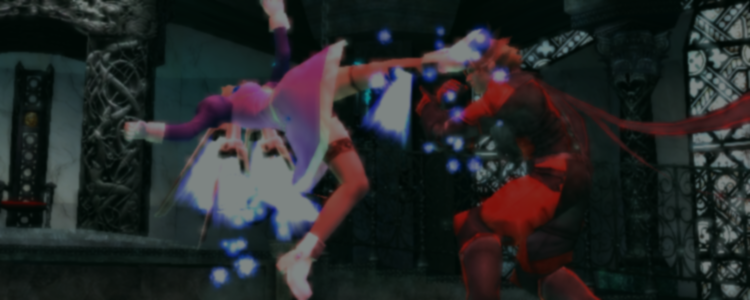
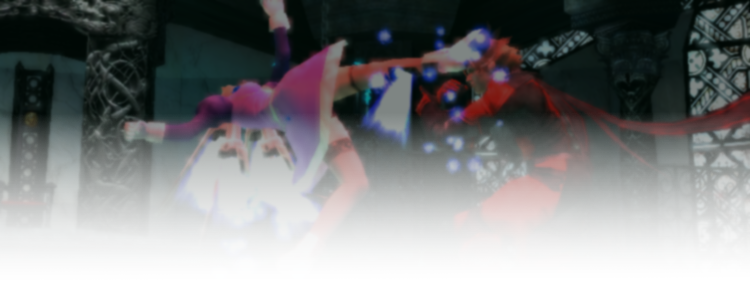
Update on TEKKEN 6 page

diff --git a/tk6-progress.html b/tk6-progress.html
@@ -1,0 +1,72 @@
+<!DOCTYPE html>
+<html lang="en">
+
+<head>
+
+  <meta charset="utf-8">
+  <meta name="viewport" content="width=device-width, initial-scale=1, shrink-to-fit=no">
+  <meta name="description" content="">
+  <meta name="author" content="">
+
+  <title>TEKKEN 6</title>
+
+  <!-- Bootstrap core CSS -->
+  <link href="vendor/bootstrap/css/bootstrap.min.css" rel="stylesheet">
+
+  <!-- Custom fonts for this template -->
+  <link href="vendor/fontawesome-free/css/all.min.css" rel="stylesheet" type="text/css">
+  <link href='https://fonts.googleapis.com/css?family=Lora:400,700,400italic,700italic' rel='stylesheet' type='text/css'>
+  <link href='https://fonts.googleapis.com/css?family=Open+Sans:300italic,400italic,600italic,700italic,800italic,400,300,600,700,800' rel='stylesheet' type='text/css'>
+  <link href="https://fonts.googleapis.com/css?family=Roboto&display=swap" rel="stylesheet">
+  <link href="https://fonts.googleapis.com/css?family=Montserrat&display=swap" rel="stylesheet">
+
+  <!-- Custom styles for this template -->
+  <link href="css/clean-blog.min.css" rel="stylesheet">
+
+  
+  <!-- Background -->
+  
+</head>
+  <!-- Navigation -->
+
+  <!-- Page Header -->
+
+  <!-- Post Content -->
+
+	<!-- Blog Post -->
+          <!-- Blog Post -->
+		  <!--
+          <div class="card mb-4">
+            <img class="card-img-top" src="http://placehold.it/750x300" alt="Card image cap">
+            <div class="card-body">
+              <h2 class="card-title">Post Title</h2>
+              <p class="card-text">Lorem ipsum dolor sit amet, consectetur adipisicing elit. Reiciendis aliquid atque, nulla? Quos cum ex quis soluta, a laboriosam. Dicta expedita corporis animi vero voluptate voluptatibus possimus, veniam magni quis!</p>
+              <a href="#" class="btn btn-primary">Read More &rarr;</a>
+            </div>
+            <div class="card-footer text-muted">
+              Posted on January 1, 2017 by
+              <a href="#">Start Bootstrap</a>
+            </div>
+          </div>
+		  -->
+		  
+		<!-- End Blog Posts Column-->
+
+        <!-- Sidebar Widgets Column -->
+        
+      <!-- /.row -->
+
+
+  <!-- Footer -->
+
+
+  <!-- Bootstrap core JavaScript -->
+  <script src="vendor/jquery/jquery.min.js"></script>
+  <script src="vendor/bootstrap/js/bootstrap.bundle.min.js"></script>
+
+  <!-- Custom scripts for this template -->
+  <script src="js/clean-blog.min.js"></script>
+
+</body>
+
+</html>

diff --git a/tekken6.html b/tekken6.html
@@ -26,8 +26,6 @@
   
   <!-- Background -->
   
-  <div style="background-image: url('null.png'); background-repeat: no-repeat; background-size: cover; background-position: center;">
-  
 </head>
   <!-- Navigation -->
   <nav class="navbar navbar-expand-lg navbar-dark fixed-top" id="mainNav">
@@ -80,6 +78,9 @@
   </button>
   <button class="btn btn-outline-dark" type="button" data-toggle="collapse" data-target="#installation" aria-expanded="false" aria-controls="download">
     INSTALLATION &#9662;
+  </button>
+	<button class="btn btn-outline-dark" type="button" data-toggle="collapse" data-target="#progress" aria-expanded="false" aria-controls="download">
+    PROGRESS &#9662;
   </button>
 </p>
 	<div class="collapse" id="about" data-parent="#ButtonGroup">
@@ -137,10 +138,25 @@
 					Make a TEXTURES folder if it's not there.
 					</div>
 					</li>
-			</ul>
-				
-			
-			</div>
+			</ul>			
+		</div>
+</div>
+	<div class="collapse" id="progress" data-parent="#ButtonGroup">
+		<div class="card card-body">
+		<h6 style="font-family: Roboto">Note: This tab is still incomplete</h6>
+			<h5><img src="img/stages.png" alt=""></h5>
+				<div class="progress">
+					<div class="progress-bar progress-bar-striped progress-bar-animated bg-success" role="progressbar" aria-valuenow="100" aria-valuemin="0" aria-valuemax="100" style="font-family: Roboto; width: 100%">100%</div>
+					</div>
+					<h5><img src="img/effects-header.png" alt=""></h5>
+						<div class="progress">
+							<div class="progress-bar progress-bar-striped progress-bar-animated bg-danger" role="progressbar" aria-valuenow="0" aria-valuemin="0" aria-valuemax="100" style="font-family: Roboto; width: 0%">0%</div>
+					</div>
+					<h5><img src="img/characters.png" alt=""></h5>
+						<div class="progress">
+							<div class="progress-bar progress-bar-striped progress-bar-animated bg-danger" role="progressbar" aria-valuenow="0" aria-valuemin="0" aria-valuemax="100" style="font-family: Roboto; width: 0%">0%</div>
+					</div>
+	</div>
 	</div>
 	
 	
@@ -179,7 +195,6 @@
 		  -->
 		  
 		<!-- End Blog Posts Column-->
-		</div>
 
         <!-- Sidebar Widgets Column -->
         
@@ -187,8 +202,7 @@
 
     </div>
   <!-- Footer -->
-<footer>
-</footer>
+
 
   <!-- Bootstrap core JavaScript -->
   <script src="vendor/jquery/jquery.min.js"></script>

diff --git a/scss/_variables.scss b/scss/_variables.scss
@@ -31,3 +31,5 @@ $warning:       $yellow !default;
 $danger:        $red !default;
 $light:         $gray-100 !default;
 $dark:          $gray-800 !default;
+
+$enable-gradients: true
